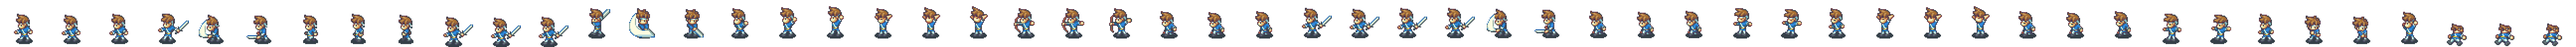
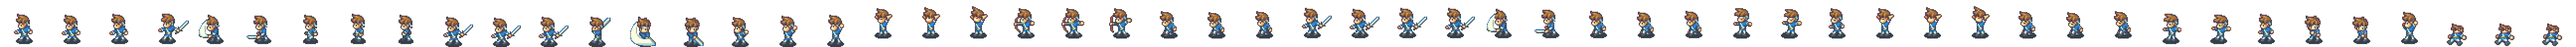
get slash to work properly

Changed region(s): [[0.2188, 0.1667, 0.3438, 1.0]]

diff --git a/src/game/Systems/AsepriteSystem.cpp b/src/game/Systems/AsepriteSystem.cpp
@@ -1,4 +1,3 @@
-#include "Supergoon/ECS/Components/GameStateComponent.hpp"
 #include <Supergoon/Content/ContentRegistry.hpp>
 #include <Supergoon/ECS/Components/AnimationComponent.hpp>
 #include <Supergoon/ECS/Components/CameraComponent.hpp>
@@ -13,6 +12,10 @@ void loadAnimationComponent(AnimationComponent &a) {
   if (!a.Animation) {
     a.Animation = std::make_shared<AsepriteAnimation>(a.AnimationName);
   }
+  if (a.OnAnimationEnd) {
+    a.Animation->OnAnimationEnd = a.OnAnimationEnd;
+  }
+
   a.AnimationImage = ContentRegistry::CreateContent<Image>(a.Animation->Filename());
 }
 

diff --git a/src/game/Systems/Battle/BattleLocationSystem.cpp b/src/game/Systems/Battle/BattleLocationSystem.cpp
@@ -22,6 +22,12 @@ void loadBattlers(GameObject, BattleLocationComponent &battleLocation) {
     battlerAnimation.AnimationName = "player1Battler";
     battlerComponent.Id = 1;
     battlerComponent.IsPlayer = true;
+    // TODO we need to script this somehow,
+    battlerAnimation.OnAnimationEnd = [](AsepriteAnimation *anim, std::string animEnding) {
+      if (animEnding == "slash2") {
+        anim->PlayAnimation("idle1");
+      }
+    };
   } else {
     battlerAnimation.AnimationName = "blackBird";
     battlerComponent.Id = 4;

diff --git a/src/game/Systems/Battle/BattleSystem.cpp b/src/game/Systems/Battle/BattleSystem.cpp
@@ -124,6 +124,7 @@ void handlePlayerInputForBattler(GameState *gamestate) {
     Sound::Instance()->PlaySfx(menuSelectSfx.get());
     currentBattlerComp->CurrentATB = 0;
     currentBattler = -1;
+    currentBattlerAnimationComp->Animation->PlayAnimation("slash2");
     Events::PushEvent(EscapeTheFateEvents.BattleTurnFinished, 0);
     currentBattlerAnimationComp = nullptr;
     currentBattlerComp = nullptr;
